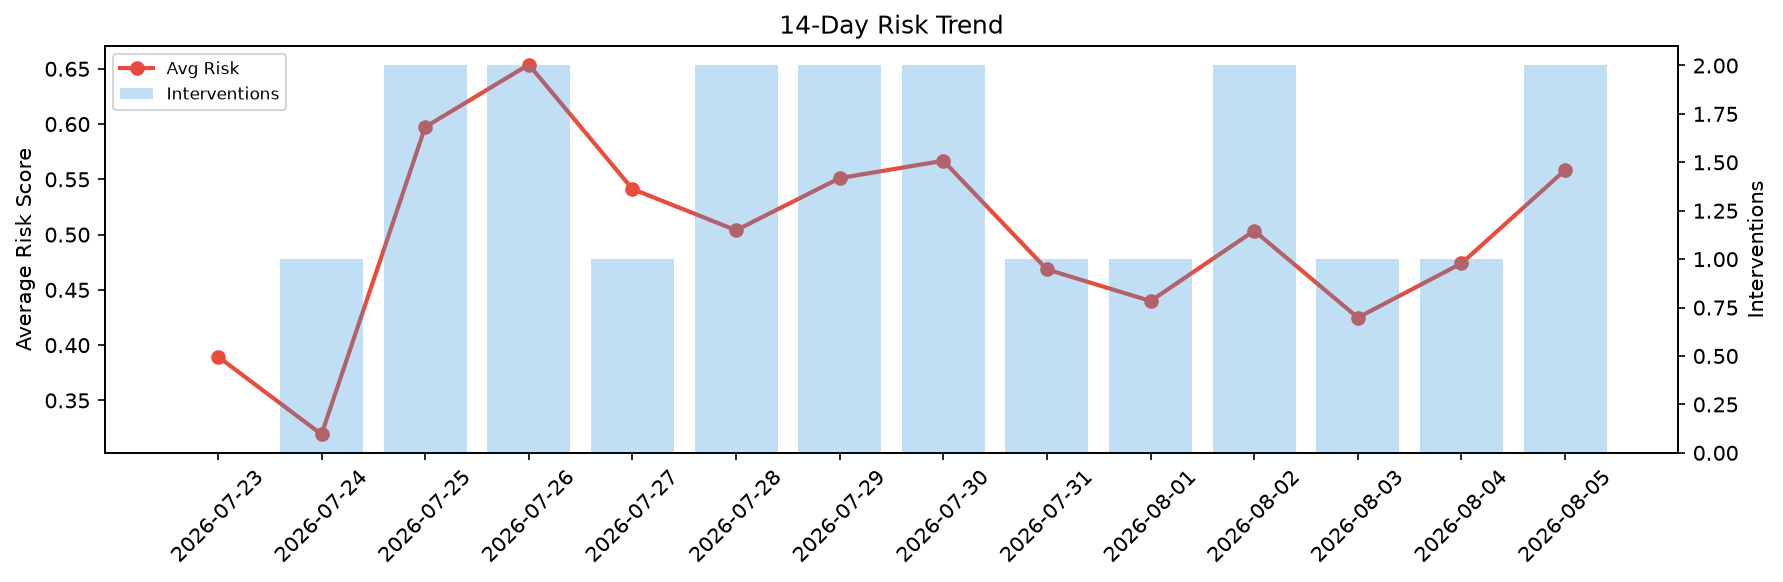
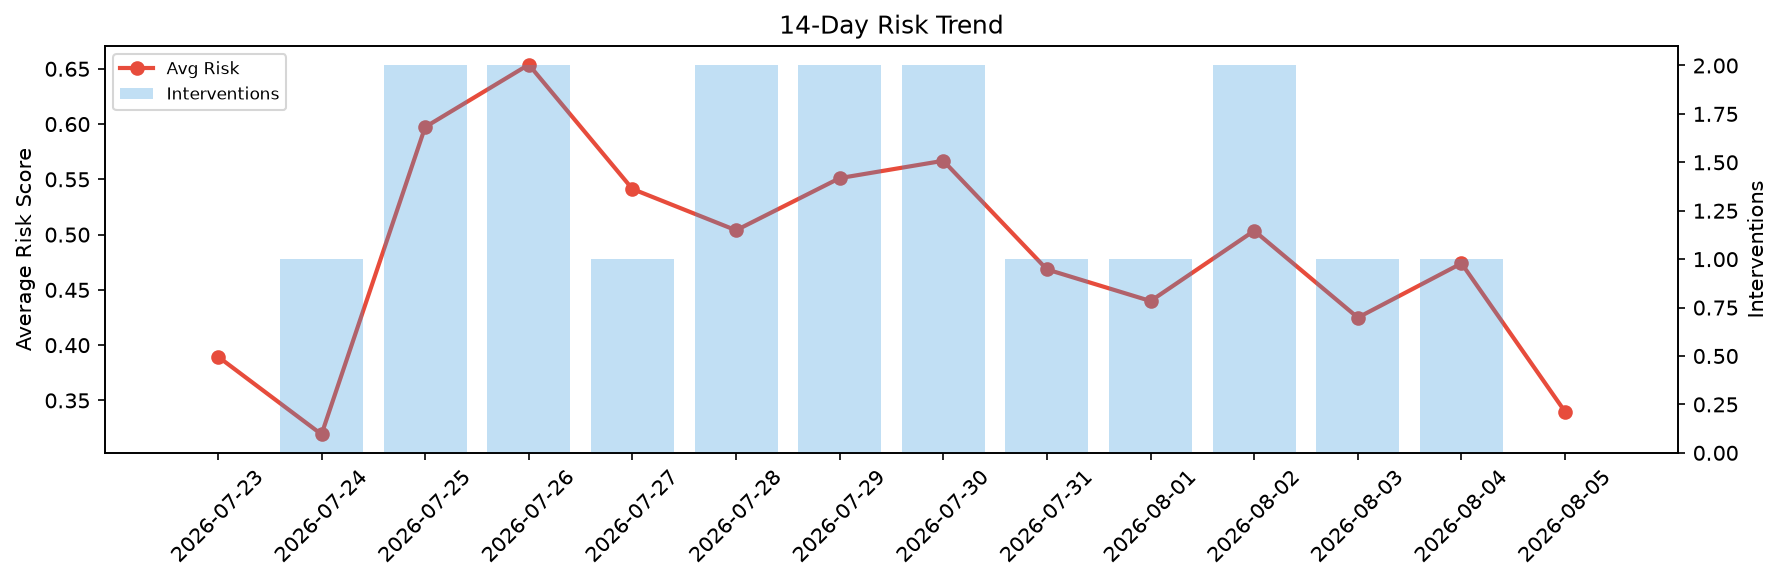
agent-improvement: daily cycle 2026-08-05T16:11

Changed region(s): [[0.802, 0.0928, 0.9254, 0.8041]]

diff --git a/logs/2026-08-05.md b/logs/2026-08-05.md
@@ -1,6 +1,6 @@
 # Agent Improvement Report — 2026-08-05
 
-**Cycle ID:** `909f1fc4` | **Avg Risk:** 0.5584 | **Interventions:** 2/4
+**Cycle ID:** `532a2af0` | **Avg Risk:** 0.3397 | **Interventions:** 0/4
 
 ![Dashboard](2026-08-05_dashboard.png)
 
@@ -10,18 +10,18 @@
 
 | Domain | Risk Score | Decision | Alerts |
 |--------|-----------|----------|--------|
-| code_review | 0.6235 | intervene | complexity, coverage |
-| incident_response | 0.3734 | monitor | none |
-| data_pipeline | 0.5837 | monitor | freshness |
-| deployment | 0.6529 | intervene | canary_error, latency_p99 |
+| code_review | 0.4472 | monitor | coverage |
+| incident_response | 0.3152 | monitor | none |
+| data_pipeline | 0.293 | monitor | none |
+| deployment | 0.3035 | monitor | none |
 
 ## Delta vs Yesterday
 
 | Domain | Today | Yesterday | Change |
 |--------|-------|-----------|--------|
-| code_review | 0.6235 | 0.7073 | 📉 -11.8% |
-| incident_response | 0.3734 | 0.4494 | 📉 -16.9% |
-| data_pipeline | 0.5837 | 0.2941 | 📈 98.5% |
-| deployment | 0.6529 | 0.4453 | 📈 46.6% |
+| code_review | 0.4472 | 0.7073 | 📉 -36.8% |
+| incident_response | 0.3152 | 0.4494 | 📉 -29.9% |
+| data_pipeline | 0.293 | 0.2941 | 📉 -0.4% |
+| deployment | 0.3035 | 0.4453 | 📉 -31.8% |
 
-**Refinement:** `{'adjustment': 'tighten_thresholds', 'trend': 'degrading', 'window': 4}`
+**Refinement:** `{'adjustment': 'maintain', 'trend': 'improving', 'window': 4}`
